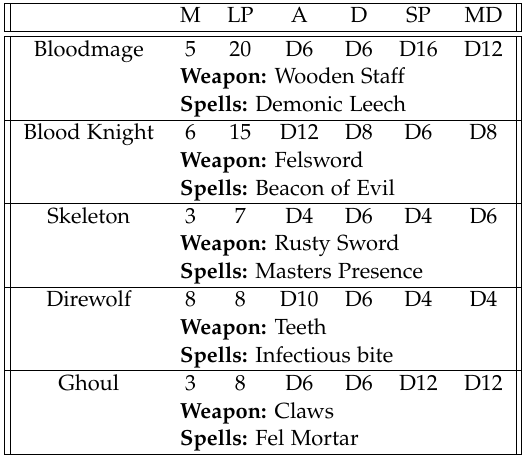
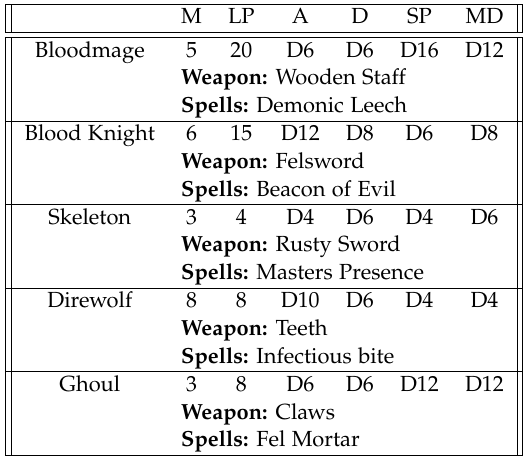
updated prototype

Changed region(s): [[0.0, 0.0, 1.0, 1.0]]

diff --git a/Rules/Rulebook.tex b/Rules/Rulebook.tex
@@ -405,7 +405,7 @@ A bloodmage usually is on its own, accompanied by demonic creatures, skeleton an
   & \multicolumn{6}{l||}{\textbf{Weapon:} Felsword} \\
   & \multicolumn{6}{l||}{\textbf{Spells:} Beacon of Evil} \\
  \hline
- Skeleton & 3 & 7 & D4 & D6 & D4 & D6 \\
+ Skeleton & 3 & 4 & D4 & D6 & D4 & D6 \\
   & \multicolumn{6}{l||}{\textbf{Weapon:} Rusty Sword} \\
   & \multicolumn{6}{l||}{\textbf{Spells:} Masters Presence} \\
 \hline
